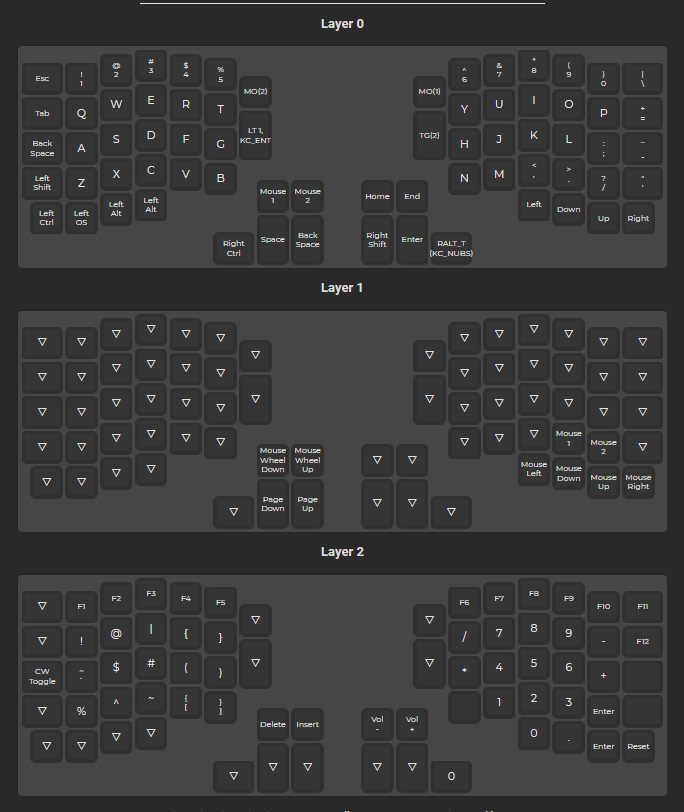
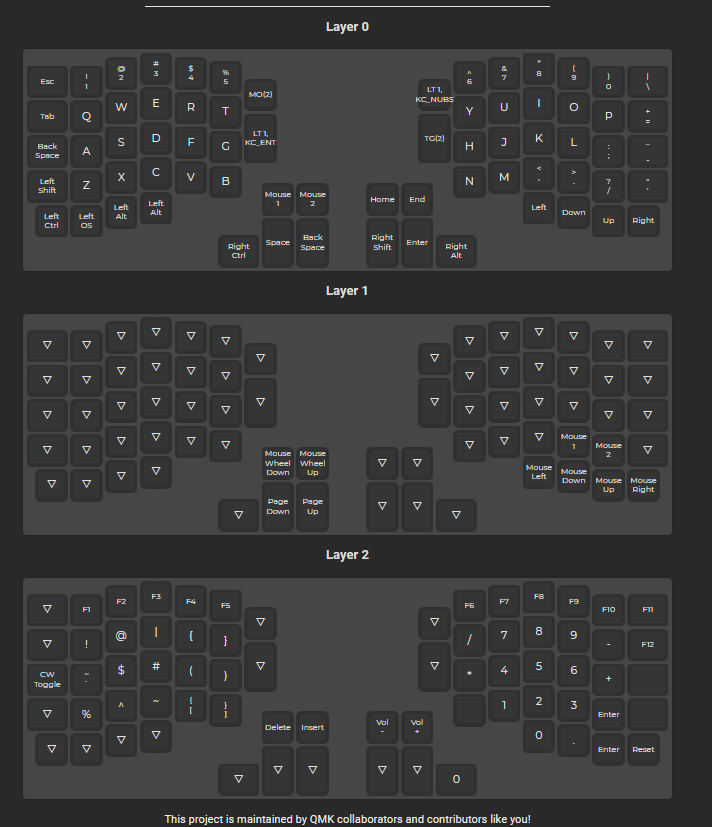
Another hour another change...

diff --git a/keymap.c b/keymap.c
@@ -9,7 +9,7 @@
 
 
 const uint16_t PROGMEM keymaps[][MATRIX_ROWS][MATRIX_COLS] = {
-	[0] = LAYOUT(KC_ESC, KC_1, KC_2, KC_3, KC_4, KC_5, KC_6, KC_7, KC_8, KC_9, KC_0, KC_NUHS, KC_TAB, KC_Q, KC_W, KC_E, KC_R, KC_T, MO(2), MO(1), KC_Y, KC_U, KC_I, KC_O, KC_P, KC_EQL, KC_BSPC, KC_A, KC_S, KC_D, KC_F, KC_G, LT(1,KC_ENT), TG(2), KC_H, KC_J, KC_K, KC_L, KC_SCLN, KC_MINS, KC_LSFT, KC_Z, KC_X, KC_C, KC_V, KC_B, KC_BTN1, KC_BTN2, KC_HOME, KC_END, KC_N, KC_M, KC_COMM, KC_DOT, KC_SLSH, KC_QUOT, KC_LCTL, KC_LGUI, KC_LALT, KC_LALT, KC_RCTL, KC_SPC, KC_BSPC, KC_RSFT, KC_ENT, RALT_T(KC_NUBS), KC_LEFT, KC_DOWN, KC_UP, KC_RGHT),
+	[0] = LAYOUT(KC_ESC, KC_1, KC_2, KC_3, KC_4, KC_5, KC_6, KC_7, KC_8, KC_9, KC_0, KC_NUHS, KC_TAB, KC_Q, KC_W, KC_E, KC_R, KC_T, MO(2), LT(1,KC_NUBS), KC_Y, KC_U, KC_I, KC_O, KC_P, KC_EQL, KC_BSPC, KC_A, KC_S, KC_D, KC_F, KC_G, LT(1,KC_ENT), TG(2), KC_H, KC_J, KC_K, KC_L, KC_SCLN, KC_MINS, KC_LSFT, KC_Z, KC_X, KC_C, KC_V, KC_B, KC_BTN1, KC_BTN2, KC_HOME, KC_END, KC_N, KC_M, KC_COMM, KC_DOT, KC_SLSH, KC_QUOT, KC_LCTL, KC_LGUI, KC_LALT, KC_LALT, KC_RCTL, KC_SPC, KC_BSPC, KC_RSFT, KC_ENT, KC_RALT, KC_LEFT, KC_DOWN, KC_UP, KC_RGHT),
 	[1] = LAYOUT(KC_TRNS, KC_TRNS, KC_TRNS, KC_TRNS, KC_TRNS, KC_TRNS, KC_TRNS, KC_TRNS, KC_TRNS, KC_TRNS, KC_TRNS, KC_TRNS, KC_TRNS, KC_TRNS, KC_TRNS, KC_TRNS, KC_TRNS, KC_TRNS, KC_TRNS, KC_TRNS, KC_TRNS, KC_TRNS, KC_TRNS, KC_TRNS, KC_TRNS, KC_TRNS, KC_TRNS, KC_TRNS, KC_TRNS, KC_TRNS, KC_TRNS, KC_TRNS, KC_TRNS, KC_TRNS, KC_TRNS, KC_TRNS, KC_TRNS, KC_TRNS, KC_TRNS, KC_TRNS, KC_TRNS, KC_TRNS, KC_TRNS, KC_TRNS, KC_TRNS, KC_TRNS, KC_WH_D, KC_WH_U, KC_TRNS, KC_TRNS, KC_TRNS, KC_TRNS, KC_TRNS, KC_BTN1, KC_BTN2, KC_TRNS, KC_TRNS, KC_TRNS, KC_TRNS, KC_TRNS, KC_TRNS, KC_PGDN, KC_PGUP, KC_TRNS, KC_TRNS, KC_TRNS, KC_MS_L, KC_MS_D, KC_MS_U, KC_MS_R),
 	[2] = LAYOUT(KC_TRNS, KC_F1, KC_F2, KC_F3, KC_F4, KC_F5, KC_F6, KC_F7, KC_F8, KC_F9, KC_F10, KC_F11, KC_TRNS, KC_EXLM, KC_AT, KC_PIPE, KC_LCBR, KC_RCBR, KC_TRNS, KC_TRNS, KC_PSLS, KC_P7, KC_P8, KC_P9, KC_PMNS, KC_F12, CW_TOGG, KC_GRV, KC_DLR, KC_HASH, KC_LPRN, KC_RPRN, KC_TRNS, KC_TRNS, KC_PAST, KC_P4, KC_P5, KC_P6, KC_PPLS, KC_NO, KC_TRNS, KC_PERC, KC_CIRC, KC_TILD, KC_LBRC, KC_RBRC, KC_DEL, KC_INS, KC_VOLD, KC_VOLU, KC_NO, KC_P1, KC_P2, KC_P3, KC_PENT, KC_NO, KC_TRNS, KC_TRNS, KC_TRNS, KC_TRNS, KC_TRNS, KC_TRNS, KC_TRNS, KC_TRNS, KC_TRNS, KC_P0, KC_P0, KC_PDOT, KC_PENT, QK_BOOT)
 };
